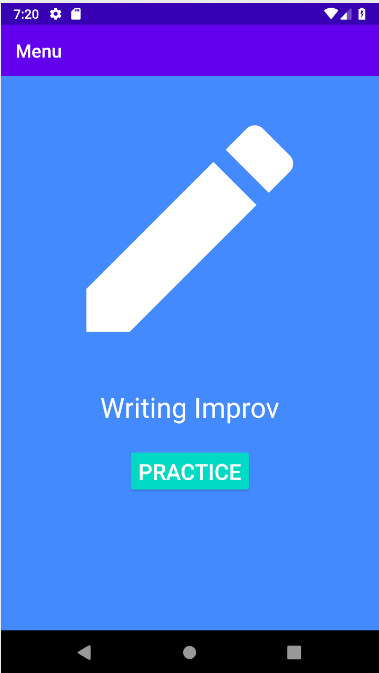
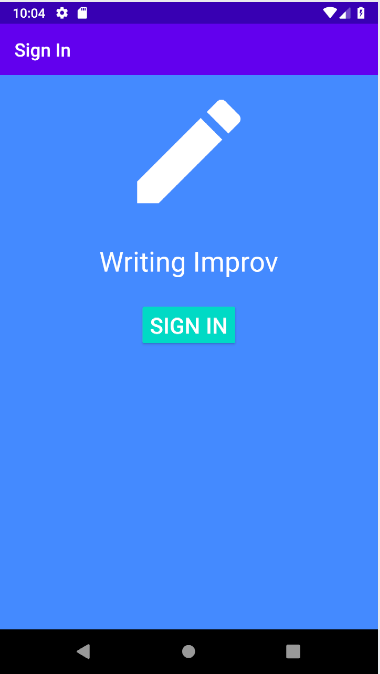
docs: Update README screenshots.
Updated image description and links.
Screen captures snipped from API 28 emulator.

Runs on API 17 tablet.
UI tests HomeFragmentTest, PromptFragmentTest, and WritingFragmentTest fail now since
user must sign in to view home screen.

diff --git a/README.md b/README.md
@@ -21,7 +21,9 @@ Clone this repository, open the cloned folder in Android Studio, and run the app
 - Espresso UI Testing
 
 ## Screenshots
-![Home](Screenshot_1.png)
-![Prompt](Screenshot_2.png)
-![Writing](Screenshot_3.png)
-![Completed](Screenshot_4.png)
+![Sign In](Screenshot_1.png)
+![Home](Screenshot_2.png)
+![Prompt](Screenshot_3.png)
+![Writing](Screenshot_4.png)
+![My Writing](Screenshot_5.png)
+![My Writing Details](Screenshot_6.png)
